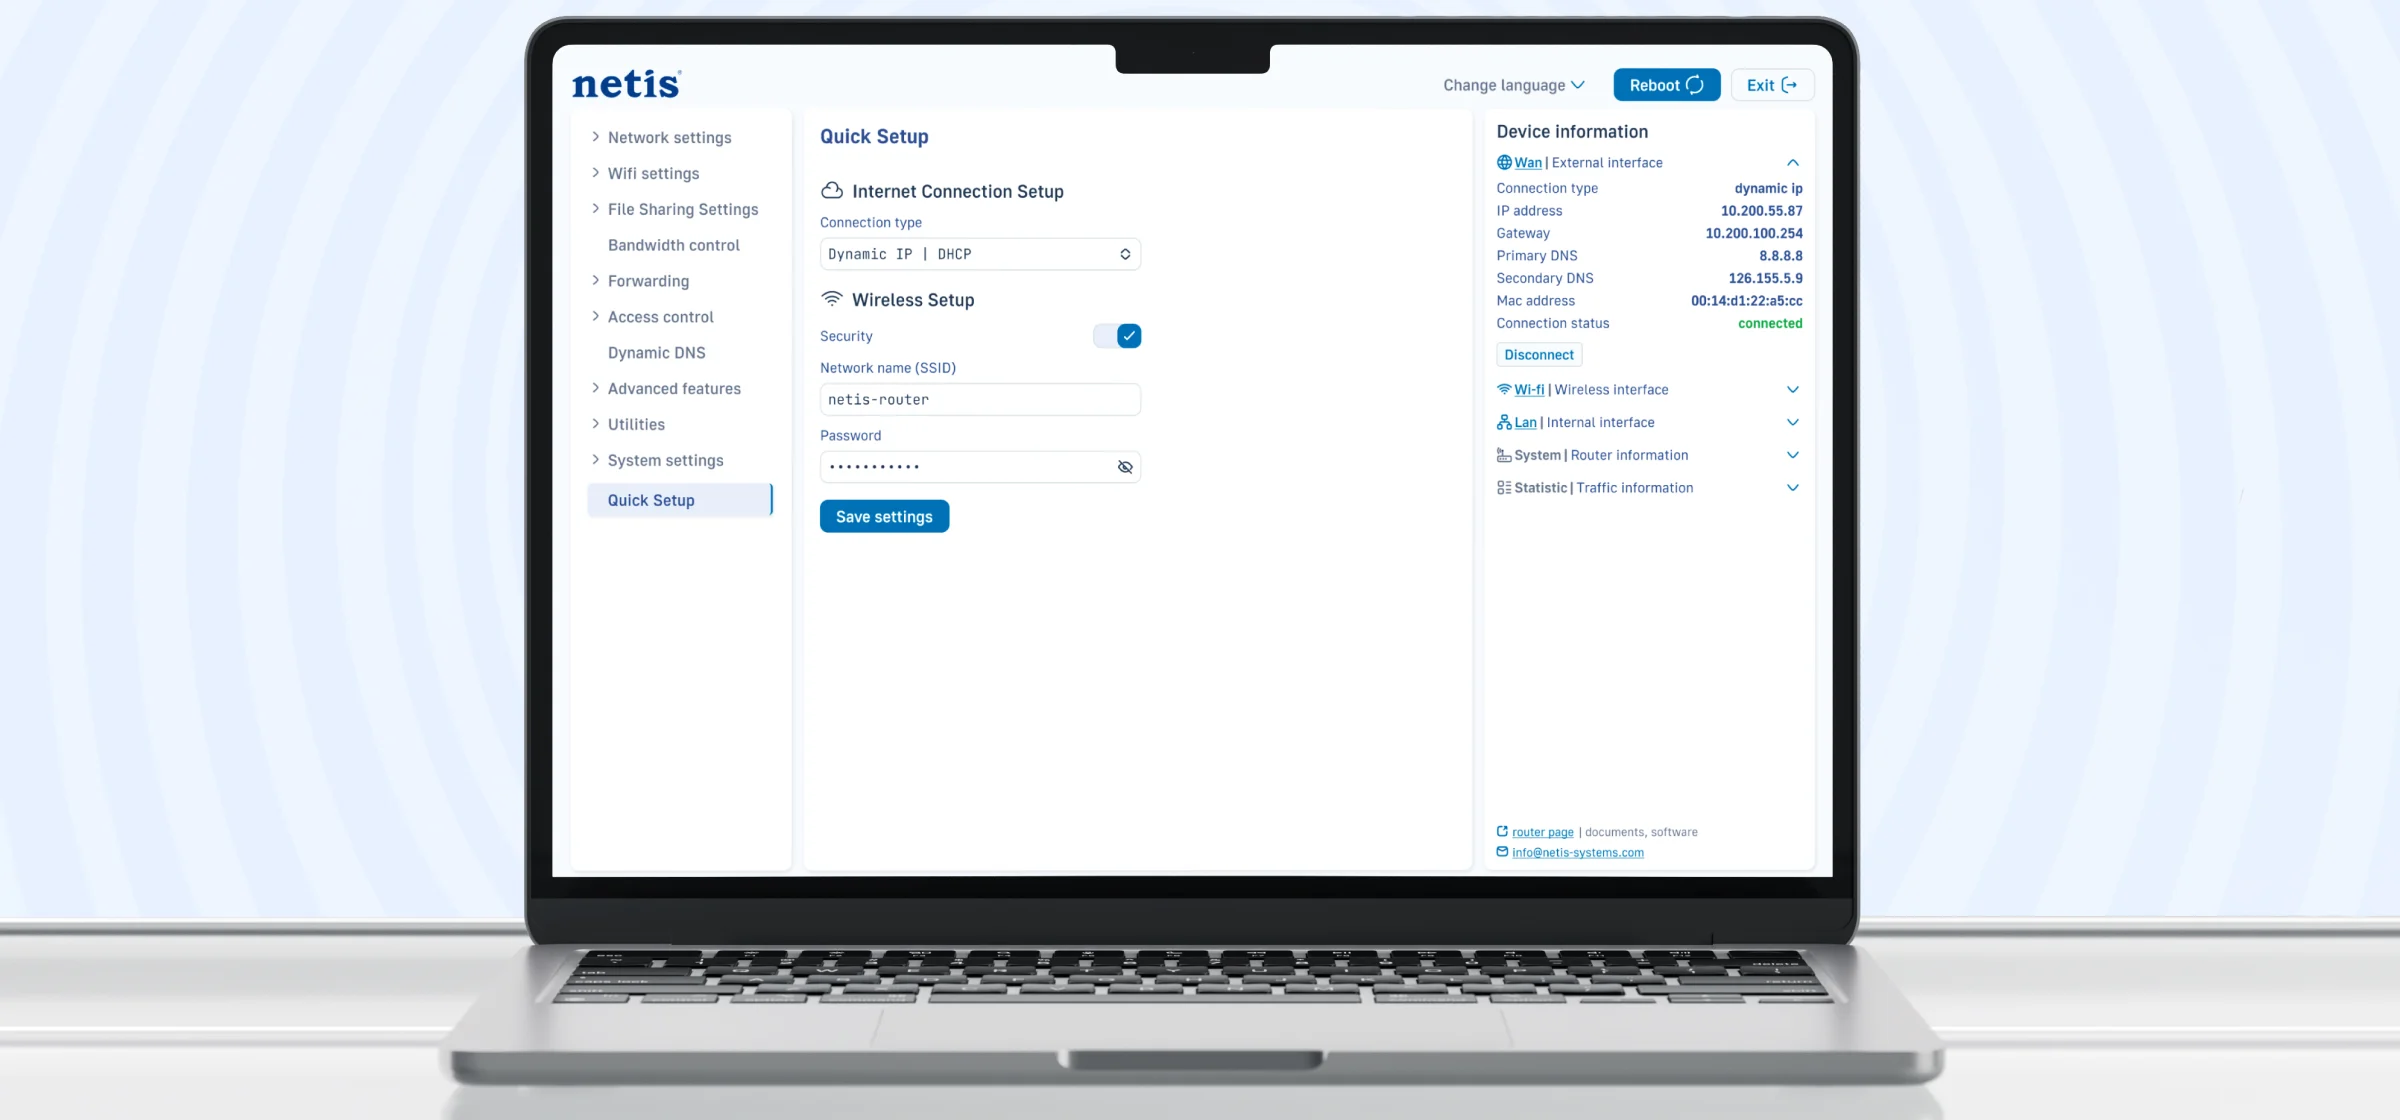
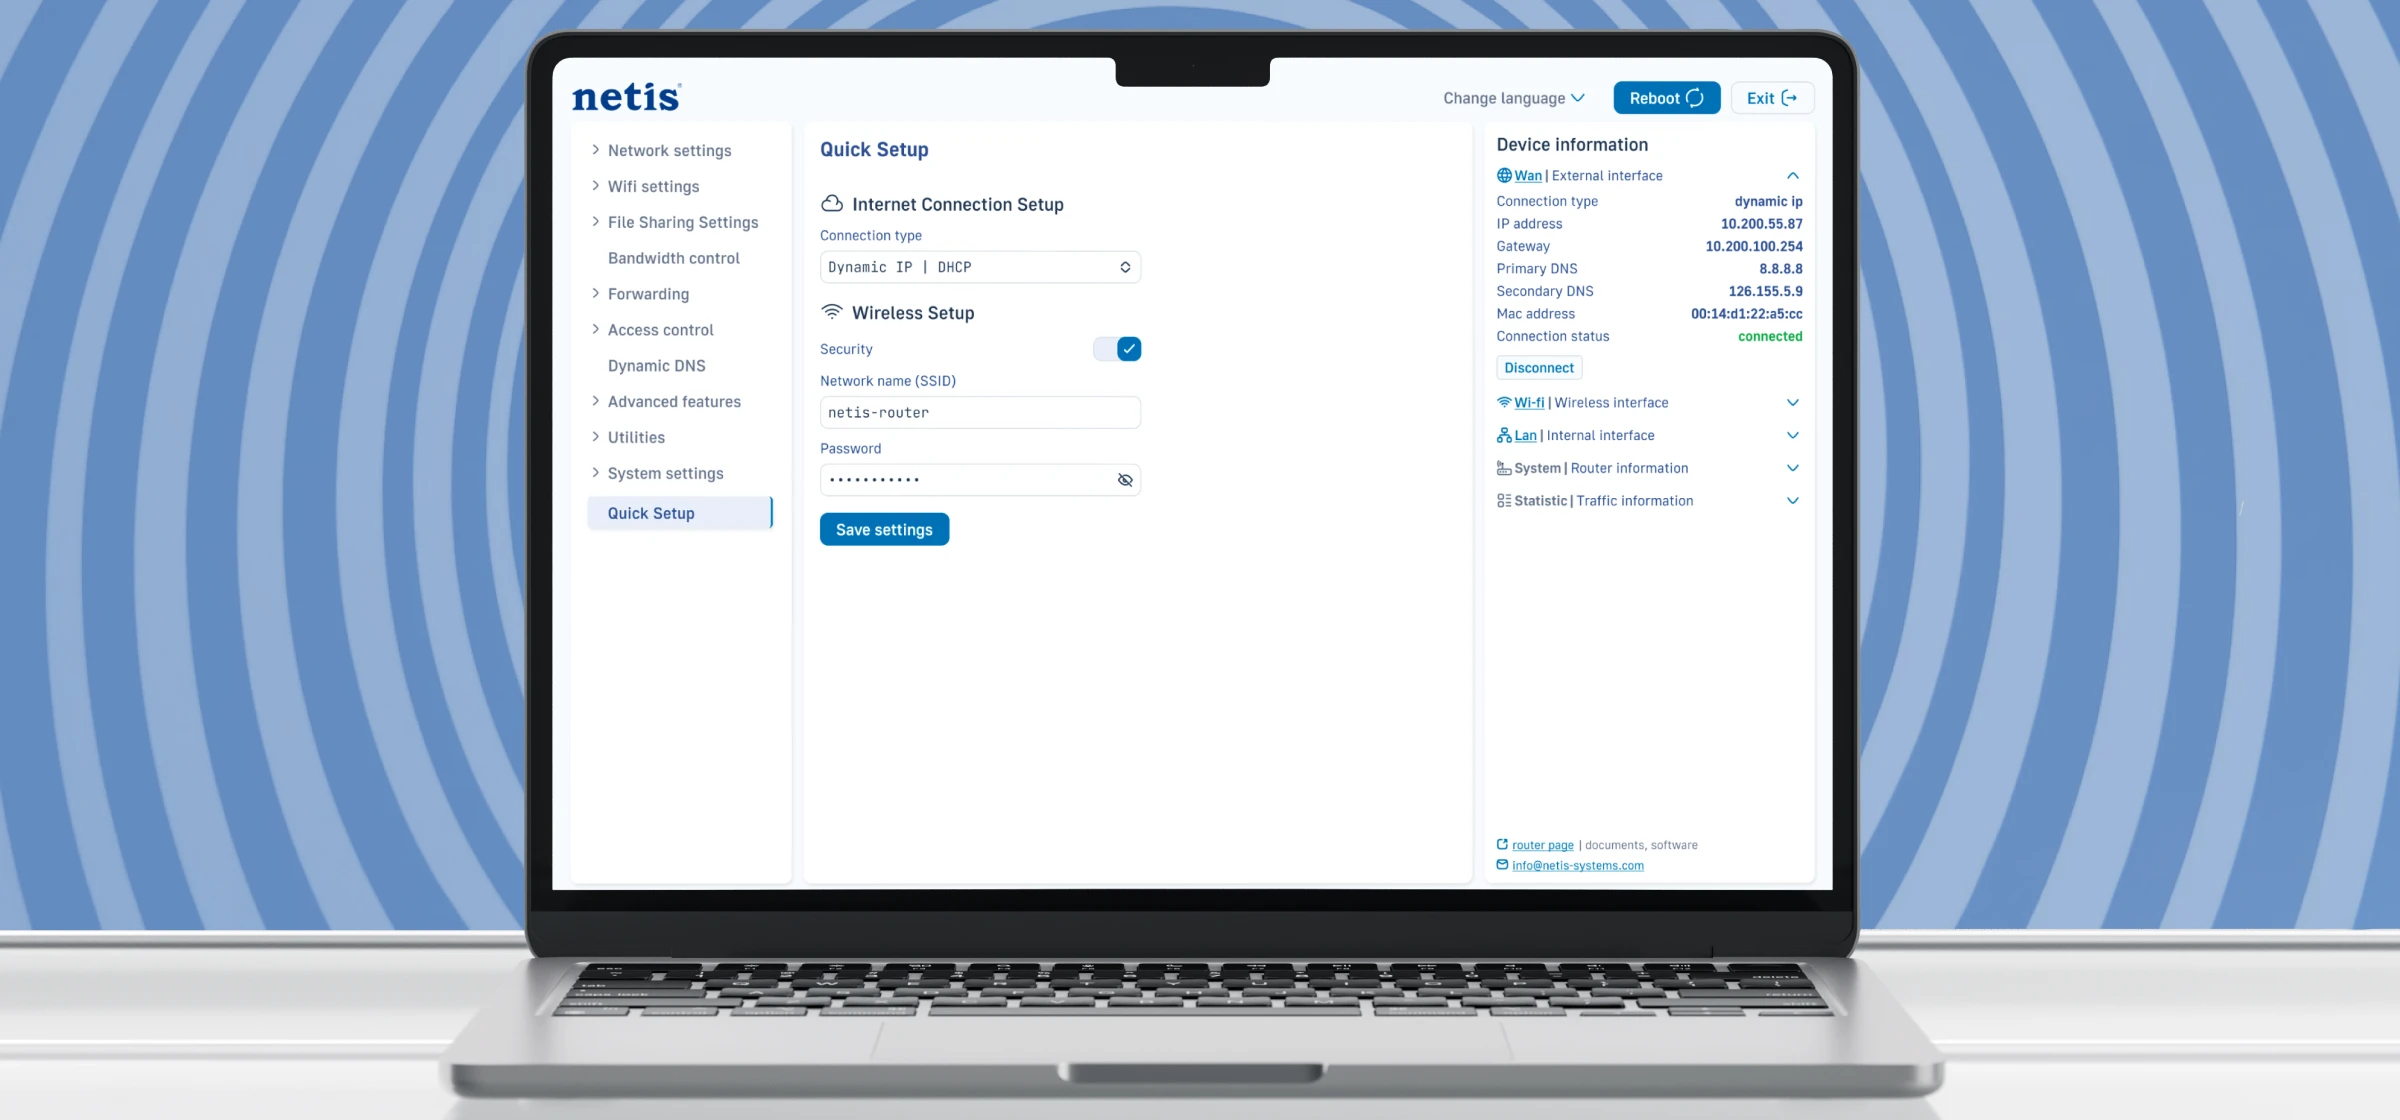
hide gimp and runapp cards. change netis img

diff --git a/index.html b/index.html
@@ -143,7 +143,7 @@
                             </div>
                         </div>
                     </div>
-                    <div class="w-layout-grid card-grid">
+                    <!-- <div class="w-layout-grid card-grid">
                         <div class="project-card">
                             <img
                                 src="/img/gimp592.jpg"
@@ -190,7 +190,7 @@
                                 </div>
                             </div>
                         </div>
-                    </div>
+                    </div> -->
                 </section>
                 <section id="animation" class="section wf-section">
                     <div class="project-banner">
